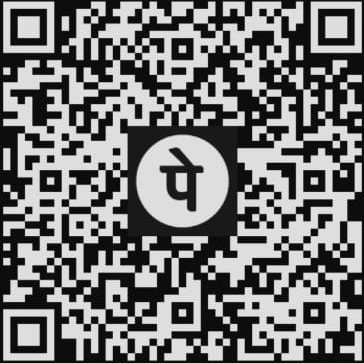
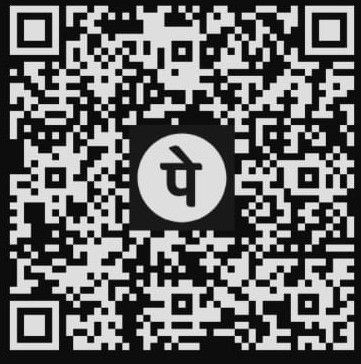
update payment QR

diff --git a/src/components/Form.jsx b/src/components/Form.jsx
@@ -241,7 +241,7 @@ const FormComp = ({ setLoadingStatus, setSubmitStatus, formStatus }) => {
         <div className="text-center">
           <label className="text-md text-gray-950 block">Payment QR Code</label>
           <p>
-            Account Holder: <span id="accountHolder">K. Adithya</span>
+            Account Holder: <span id="accountHolder">Bandi Bindu Sree</span>
           </p>
           <img
             src="/paymentsQR.jpg"
